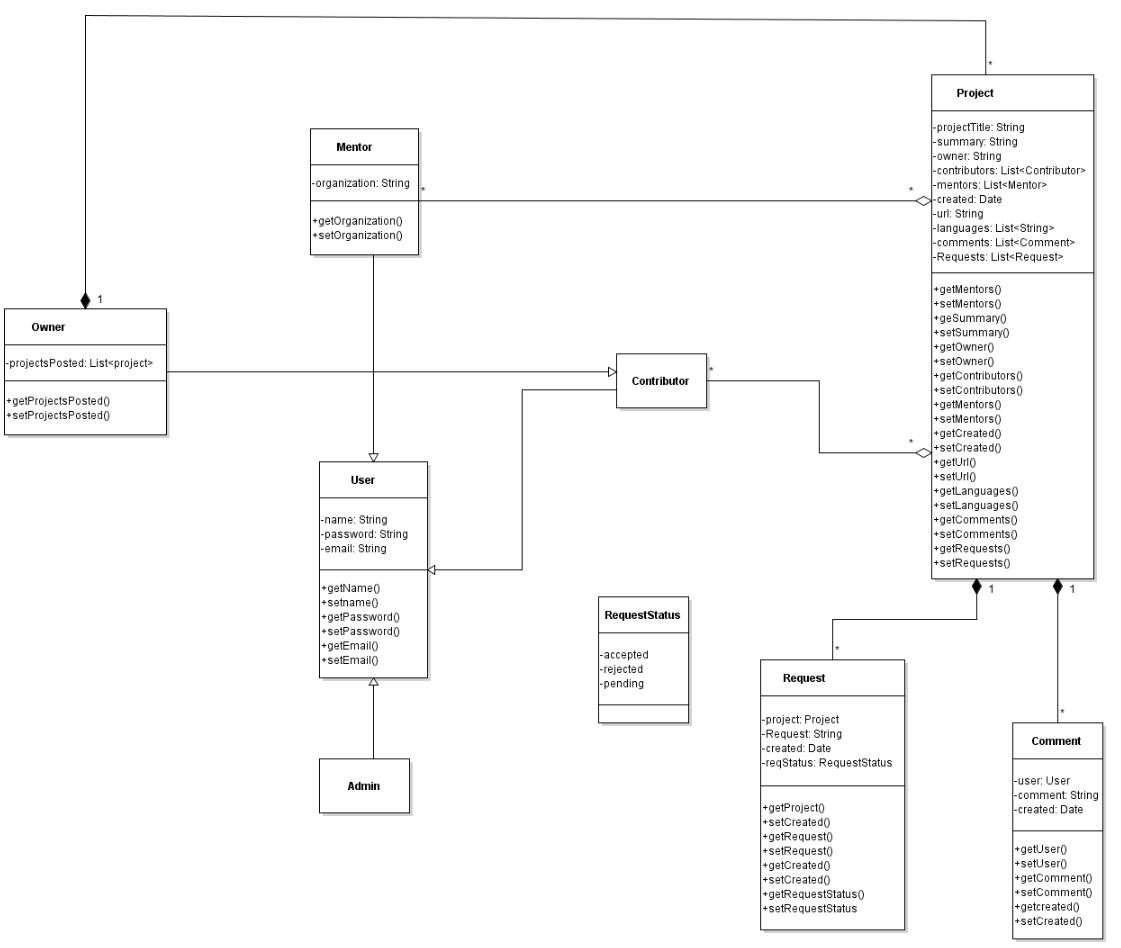
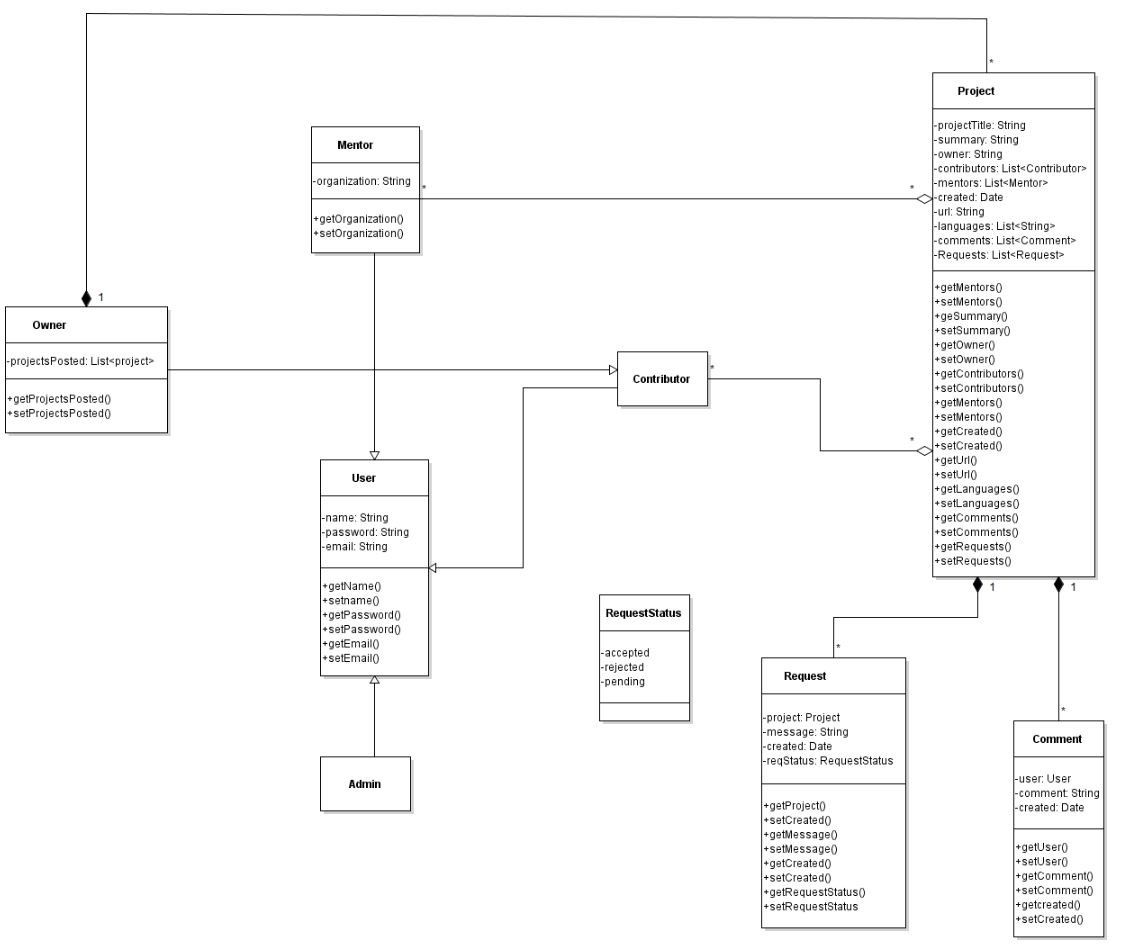
updating models based on the upadted ER model

diff --git a/src/main/java/webdev/models/Request.java b/src/main/java/webdev/models/Request.java
@@ -3,6 +3,7 @@ package webdev.models;
 import java.sql.Date;
 
 import javax.persistence.Entity;
+import javax.persistence.Enumerated;
 import javax.persistence.GeneratedValue;
 import javax.persistence.GenerationType;
 import javax.persistence.Id;
@@ -10,13 +11,19 @@ import javax.persistence.ManyToOne;
 
 import com.fasterxml.jackson.annotation.JsonIgnore;
 
+enum RequestStatus {
+	frontendEngineer, backendEngineer, dataScienceEngineer, qualityEngineer
+}
+
 @Entity
 public class Request {
 	@Id
 	@GeneratedValue(strategy=GenerationType.IDENTITY)
 	private int id;
-	private String request;
+	private String message;
 	private Date created;
+	@Enumerated
+	private RequestStatus reqStatus;
 	@JsonIgnore
 	@ManyToOne
 	private User user;
@@ -24,11 +31,11 @@ public class Request {
 	@ManyToOne
 	private Project project;
 	
-	public String getComment() {
-		return request;
+	public String getMessage() {
+		return message;
 	}
-	public void setComment(String request) {
-		this.request = request;
+	public void setMessage(String message) {
+		this.message = message;
 	}
 	public Date getCreated() {
 		return created;
@@ -48,16 +55,16 @@ public class Request {
 	public void setId(int id) {
 		this.id = id;
 	}
-	public String getRequest() {
-		return request;
-	}
-	public void setRequest(String request) {
-		this.request = request;
-	}
 	public User getUser() {
 		return user;
 	}
 	public void setUser(User user) {
 		this.user = user;
+	}
+	public RequestStatus getReqStatus() {
+		return reqStatus;
+	}
+	public void setReqStatus(RequestStatus reqStatus) {
+		this.reqStatus = reqStatus;
 	}
 }

diff --git a/src/main/java/webdev/models/Contributor.java b/src/main/java/webdev/models/Contributor.java
@@ -2,18 +2,7 @@ package webdev.models;
 
 import javax.persistence.*;
 
-enum SpecType {
-	frontendEngineer, backendEngineer, dataScienceEngineer, qualityEngineer
-}
-
 @Entity
 public class Contributor extends User {
-	@Enumerated(EnumType.STRING)
-	private SpecType specifications;
-	public SpecType getSpecifications() {
-		return specifications;
-	}
-	public void setSpecifications(SpecType specifications) {
-		this.specifications = specifications;
-	}
+
 }
